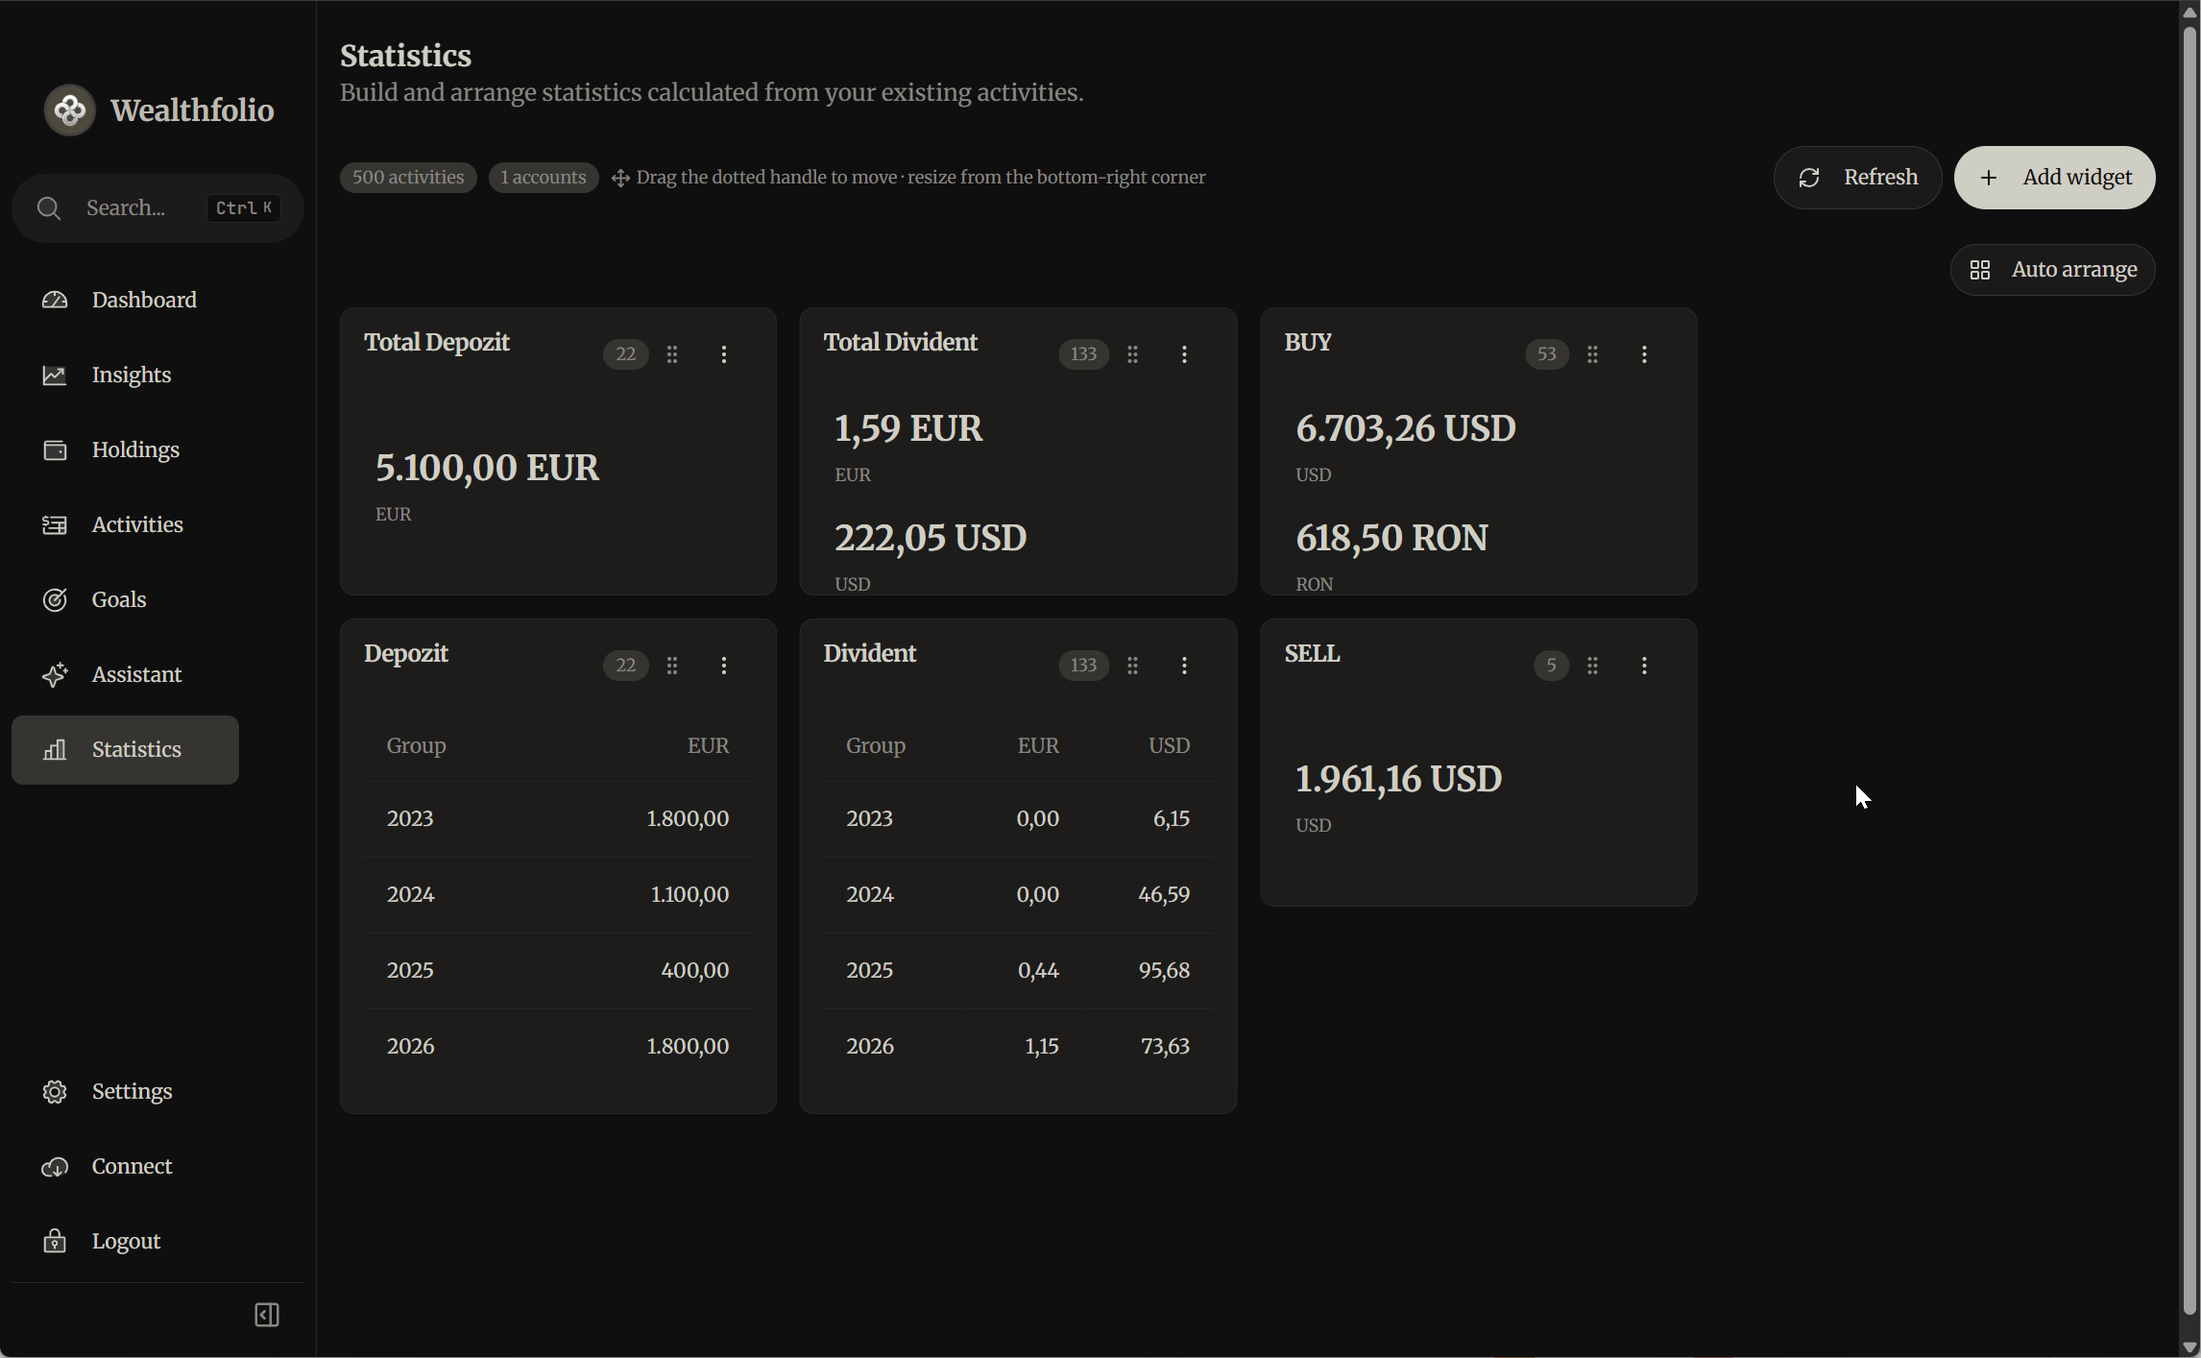
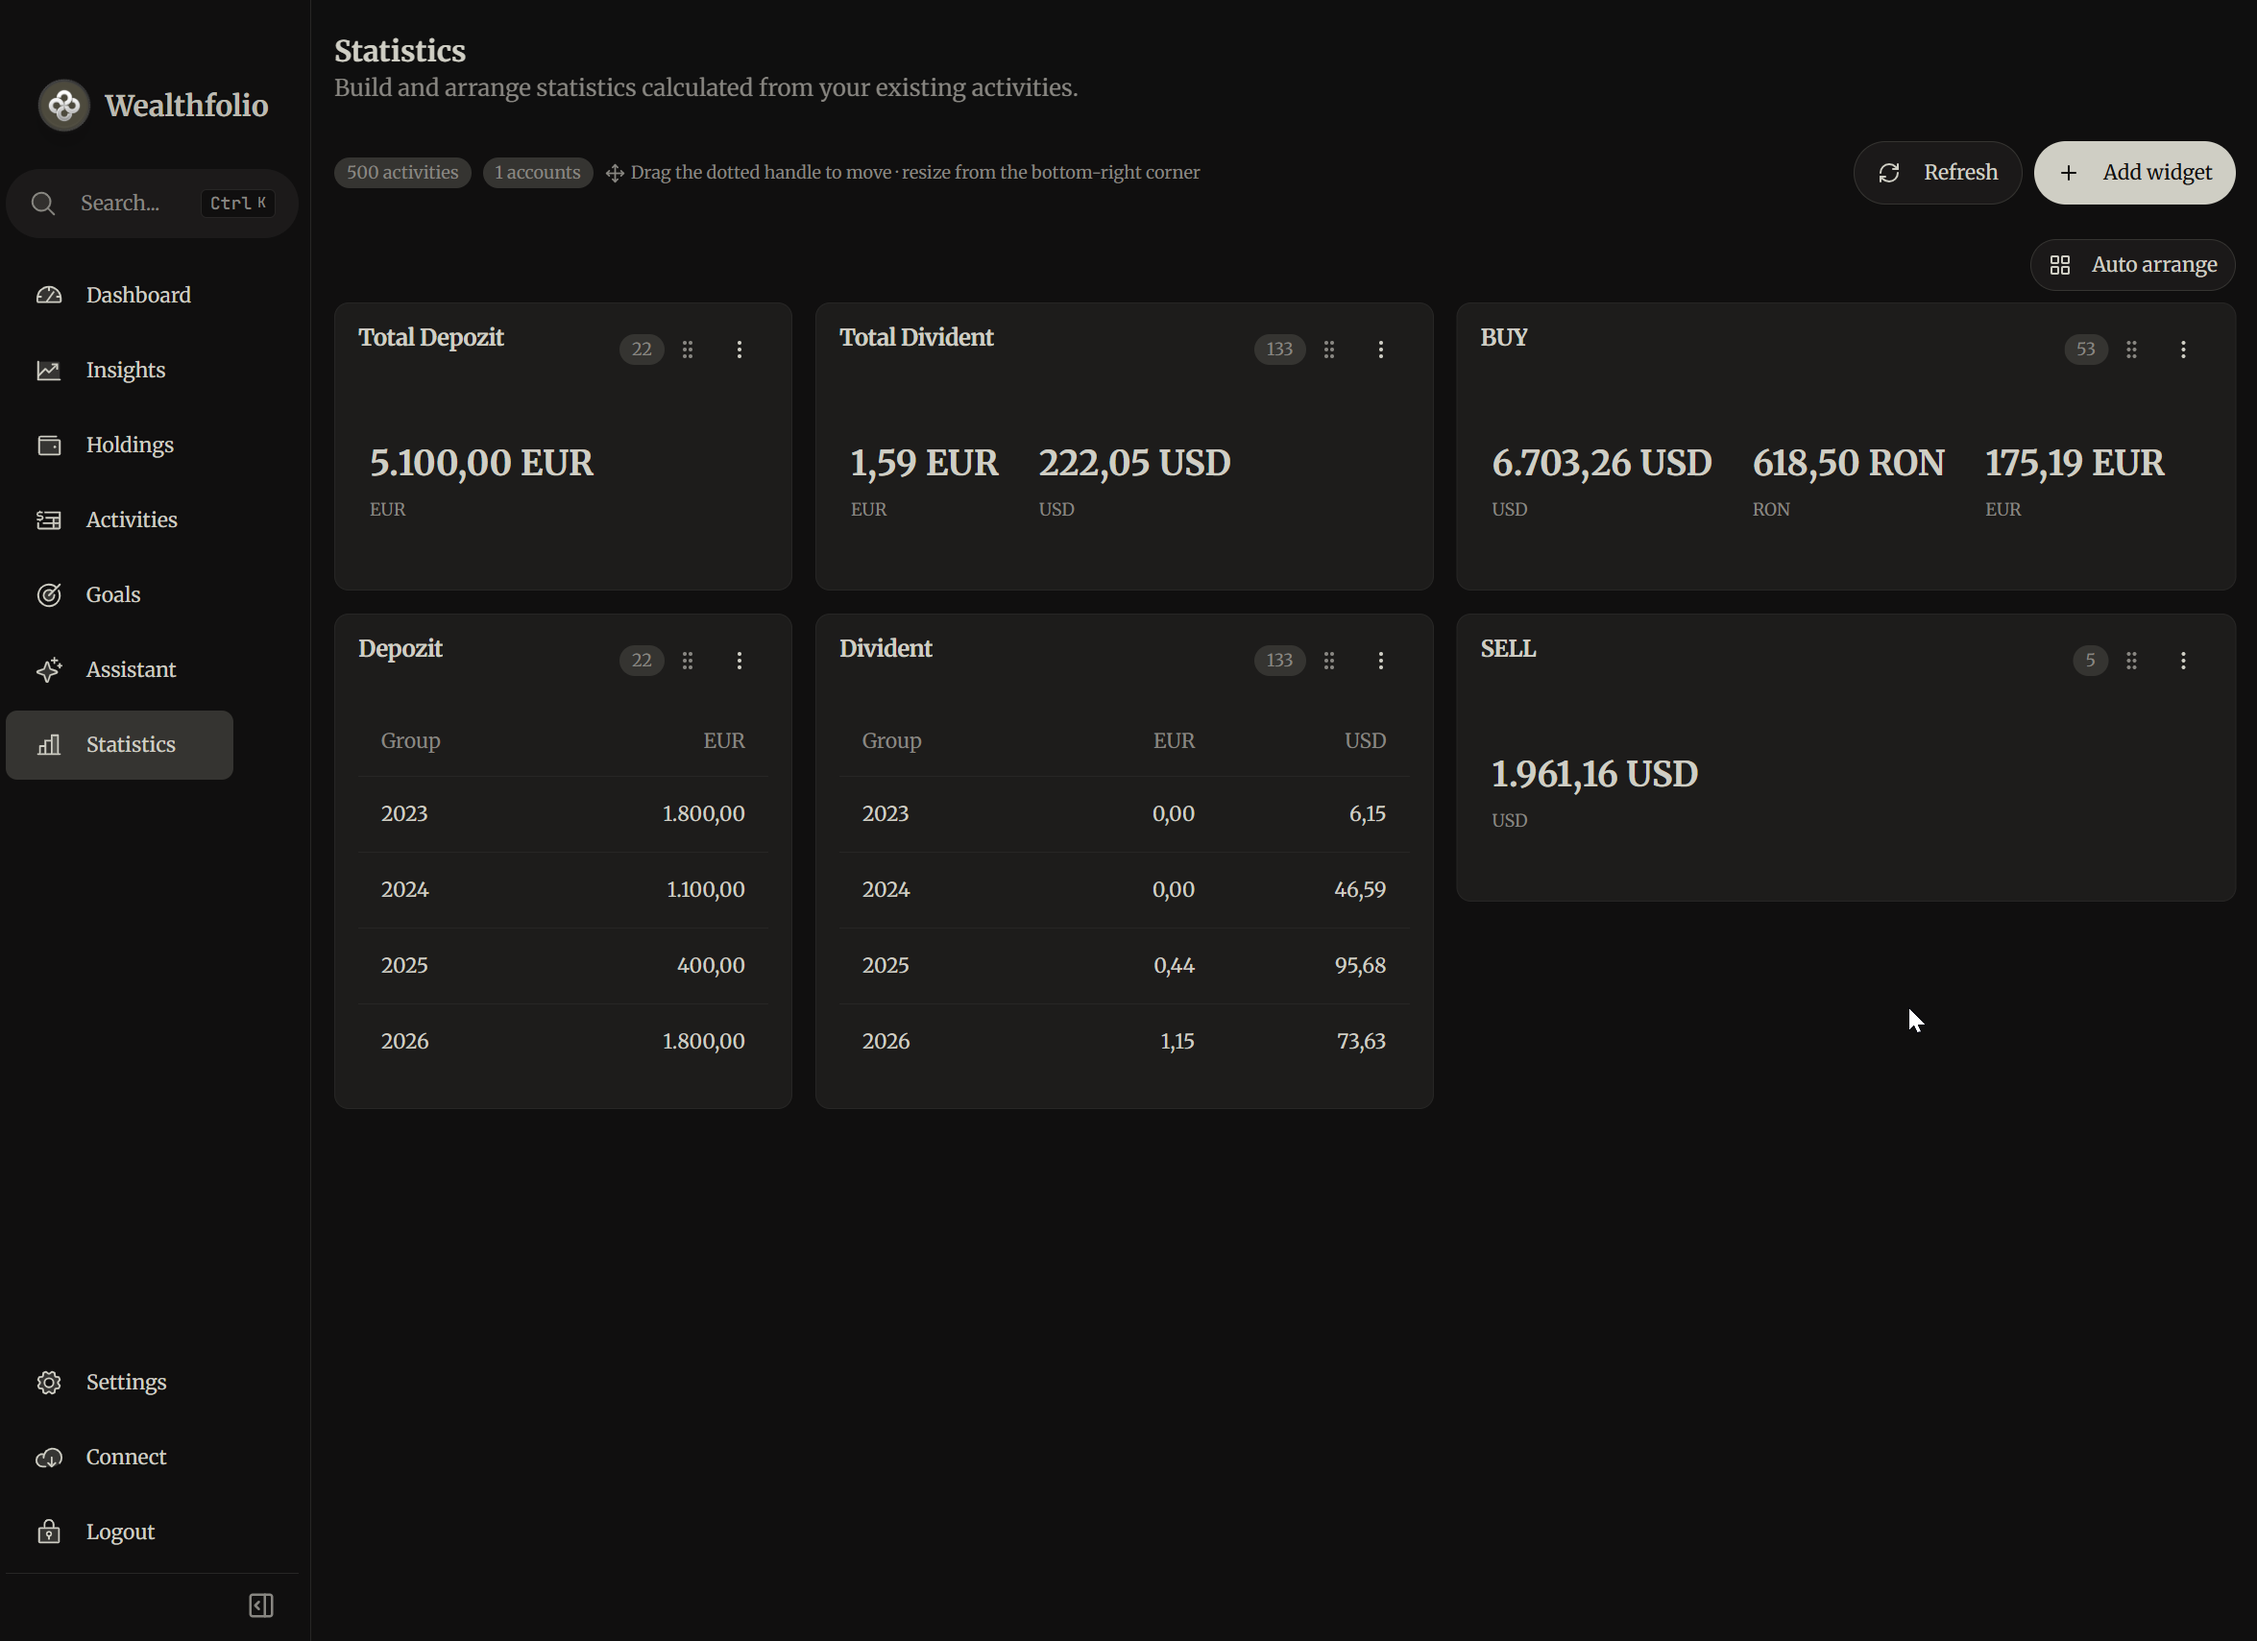
Activity Statistics Builder v1.1.2

diff --git a/README.md b/README.md
@@ -73,7 +73,7 @@ The live preview validates the configuration before it is saved. Formula compone
 
 ### Install a release
 
-1. Download `wealthfolio-activity-statistics-builder-addon-1.1.1.zip` from the latest GitHub Release.
+1. Download `wealthfolio-activity-statistics-builder-addon-<version>.zip` from the latest GitHub Release.
 2. Open the add-on management page in Wealthfolio.
 3. Choose the option to install or sideload an add-on from a ZIP file.
 4. Select the downloaded ZIP without extracting it.
@@ -103,8 +103,27 @@ pnpm bundle
 The installable archive is generated at:
 
 ```text
-dist/wealthfolio-activity-statistics-builder-addon-1.1.1.zip
+dist/wealthfolio-activity-statistics-builder-addon-<version>.zip
 ```
+
+## Automated GitHub releases
+
+The workflow in [`.github/workflows/release.yml`](.github/workflows/release.yml) publishes a release whenever a version tag such as `v1.2.0` is pushed. It:
+
+1. Checks that the tag, `package.json`, and `manifest.json` use the same version.
+2. Installs locked dependencies and runs type checking, tests, and manifest validation.
+3. Builds the production add-on and its installable ZIP.
+4. Generates a matching `.sha256` checksum file.
+5. Creates the GitHub Release, generates release notes, and uploads both files.
+
+To publish a new version, update the version in both JSON files, commit and push the change, then create and push the matching tag:
+
+```powershell
+git tag -a v1.2.0 -m "Activity Statistics Builder v1.2.0"
+git push origin v1.2.0
+```
+
+The workflow uses the repository's built-in `GITHUB_TOKEN`; no personal access token or additional GitHub secret is required.
 
 ## Permissions and privacy
 
